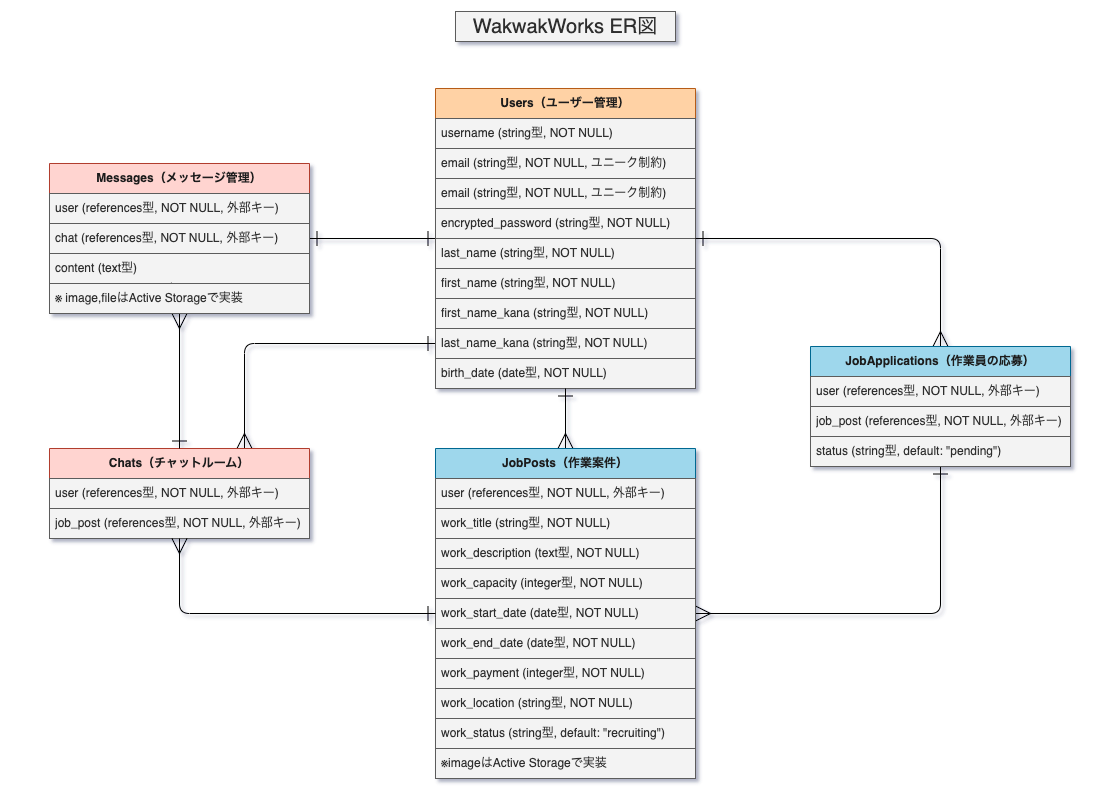
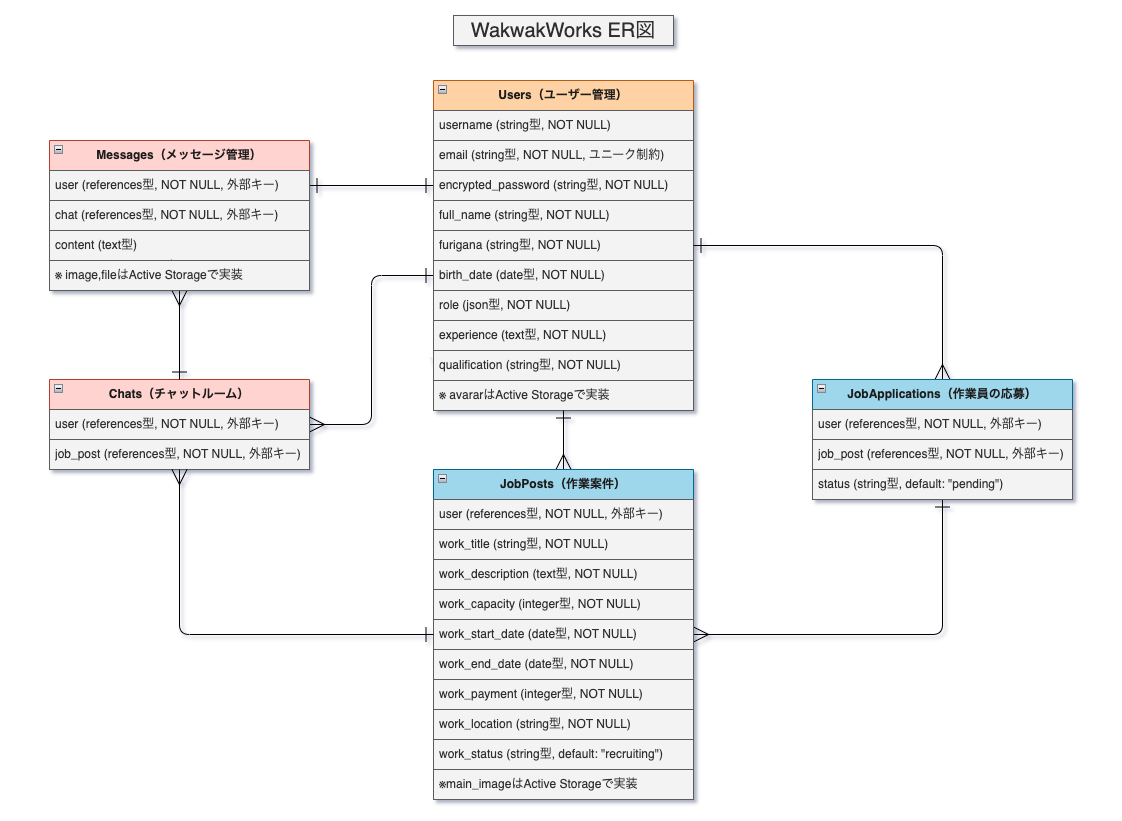
READMEの更新、ER図の更新

diff --git a/README.md b/README.md
@@ -143,10 +143,10 @@ Basic 認証
 
 # 改善点
 
+- 期限が過ぎた案件を自動で”締め切り”にする
 - 文字数制限やエラーメッセージなどの調整
 - JavaScript のエラーメッセージの解消
 - リロードなしに検索機能を使用できるようにする
-- １対多のチャット機能の実装
 
 # 制作時間
 
